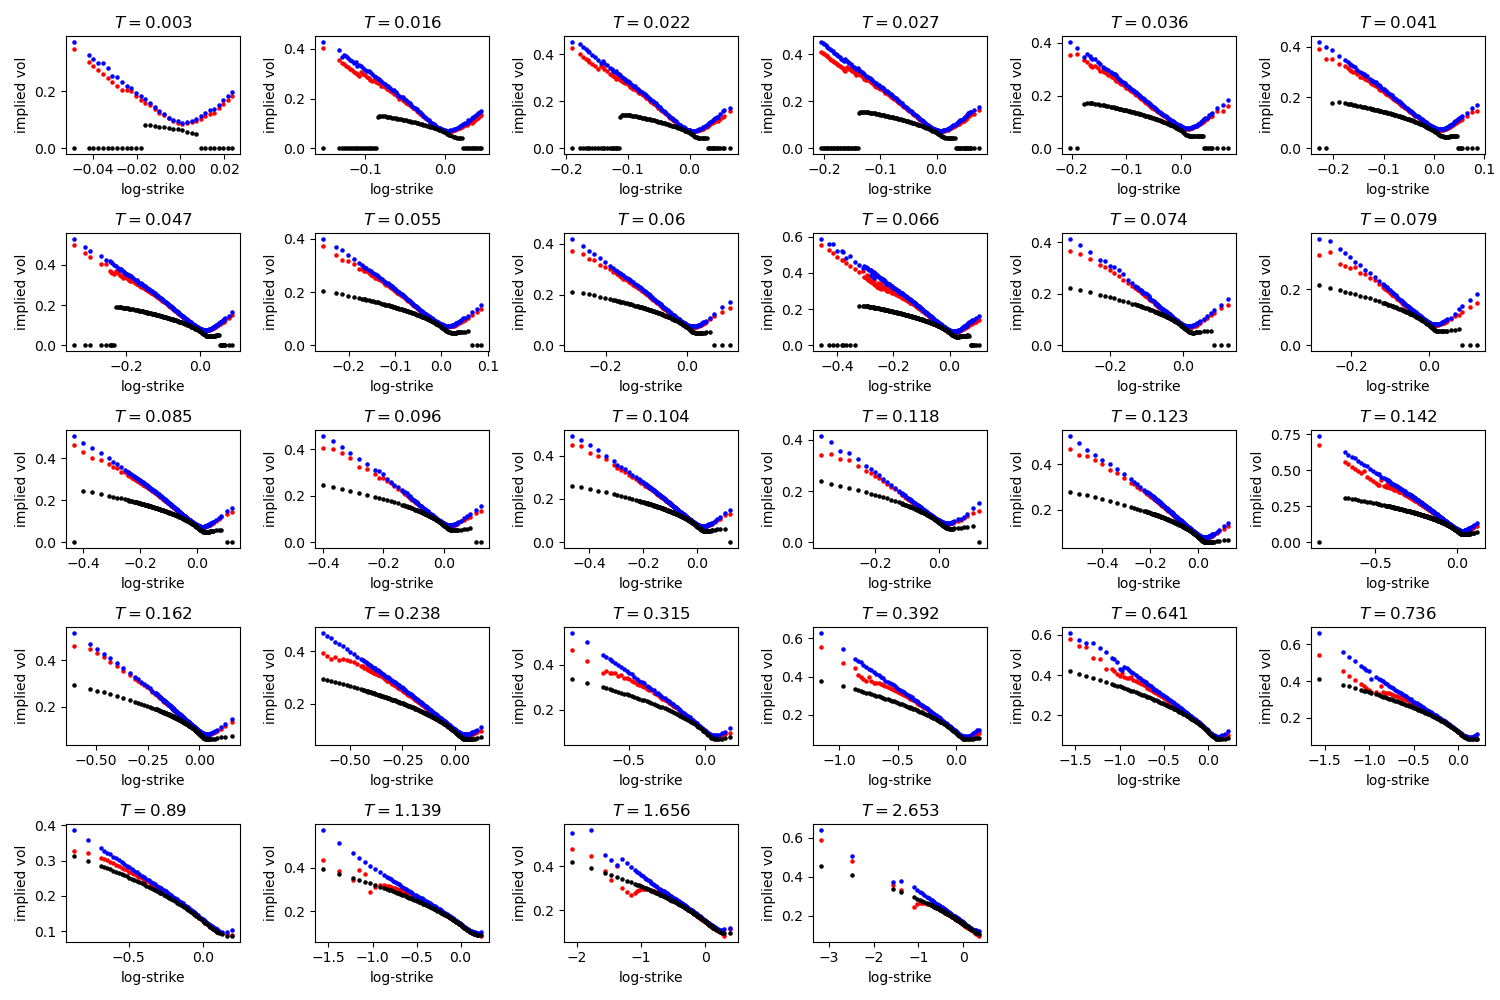
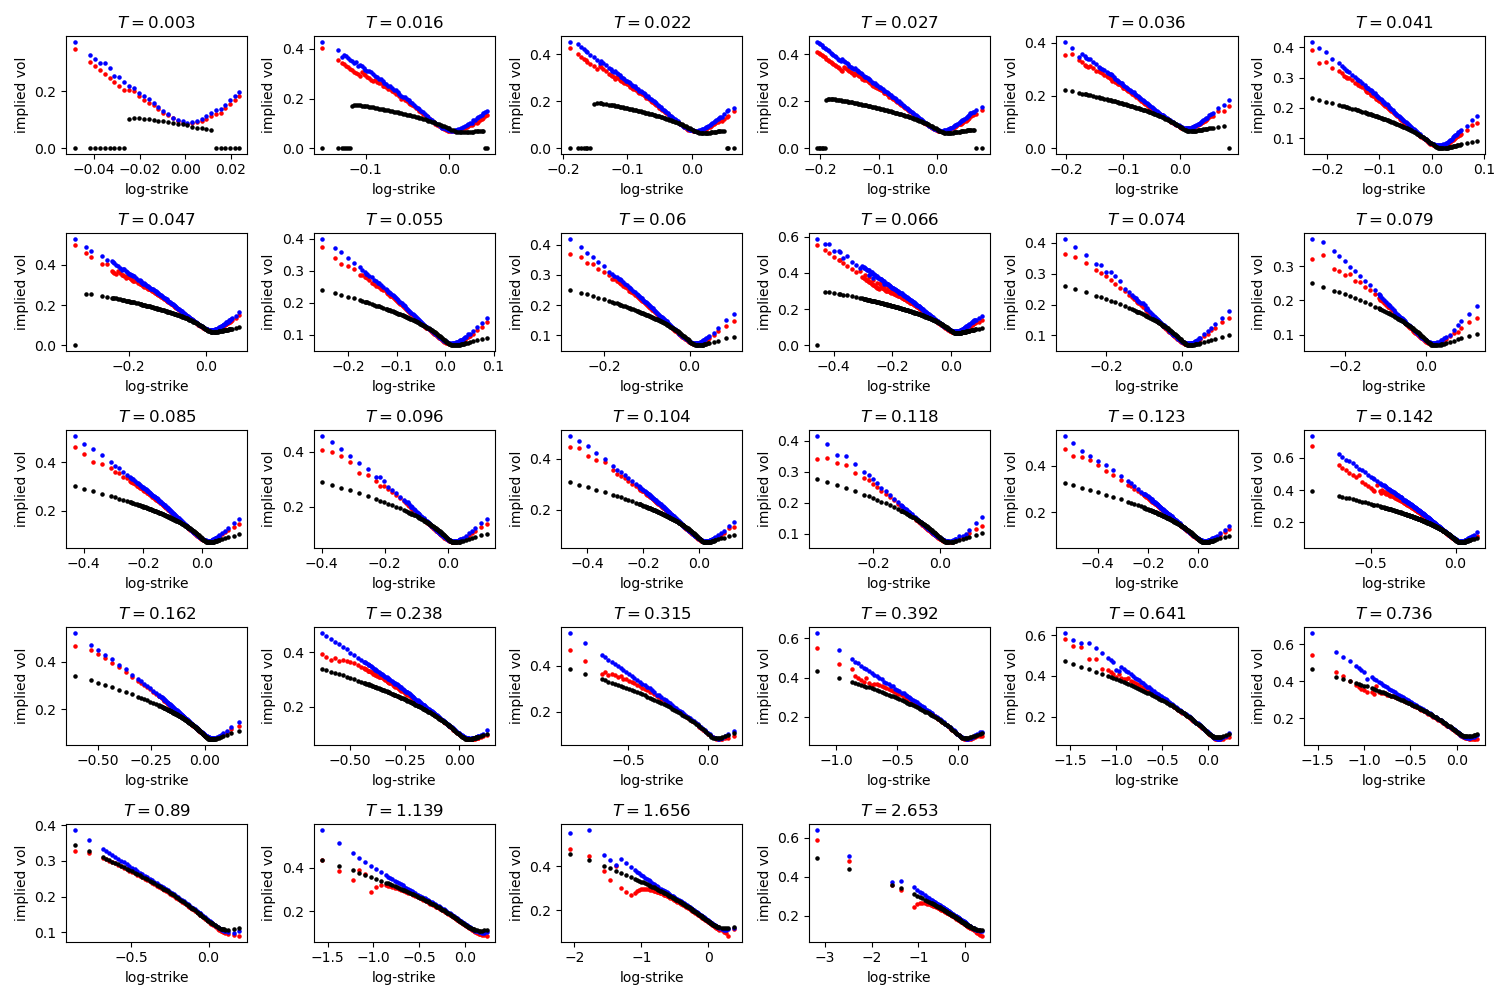
calibration to imp vol (unstable)

diff --git a/python-volcal/main.py b/python-volcal/main.py
@@ -1,18 +1,10 @@
 import numpy as np
 import pandas as pd
 import matplotlib.pyplot as plt
+from scipy.stats import norm
 from pricer import *
+from params import *
 plt.switch_backend("Agg")
-
-paramsBCC = {"meanRevRate": 1.15, "correlation": -0.64, "volOfVol": 0.39, "meanVar": 0.04, "currentVar": 0.04}
-paramsBCCkey = list(paramsBCC.keys())
-paramsBCCval = list(paramsBCC.values())
-paramsBCCBnd = ((0,10), (-1,1), (0,10), (0.01,1), (0,1))
-
-paramsMER = {"vol": 0.1, "jumpInt": 0.1, "jumpMean": -0.4, "jumpSd": 0.2}
-paramsMERkey = list(paramsMER.keys())
-paramsMERval = list(paramsMER.values())
-paramsMERBnd = ((0,1), (0,10), (-1,1), (0,10))
 
 dataFolder = "test/"
 
@@ -174,8 +166,18 @@ def test_ShortDatedHestonSmileFFT():
         plt.close()
 
 def test_HestonSmileFFTForVariousDates():
-    # TO-DO
-    pass
+    impVolFunc = CharFuncImpliedVol(HestonCharFunc(**paramsBCC),FFT=True)
+    for T in np.arange(0.01,0.1,0.01):
+        k = np.arange(-0.4,0.4,0.02)
+        iv = impVolFunc(k,T)
+        fig = plt.figure(figsize=(6,4))
+        plt.scatter(k, 100*iv, c='k', s=5)
+        plt.title(f"Heston {np.round(T,2)}-Year Smile (BCC Params)")
+        plt.xlabel("log-strike")
+        plt.ylabel("implied vol (%)")
+        fig.tight_layout()
+        plt.savefig(dataFolder+f"test_HestonSmileBCC_FFT_T={np.round(T,2)}.png")
+        plt.close()
 
 def test_HestonSmileLewis():
     impVolFunc = LewisCharFuncImpliedVol(HestonCharFunc(**paramsBCC))
@@ -213,10 +215,22 @@ def test_CalibrateHestonModelToCallPriceNew():
     T = df["Texp"]
     k = np.log(df["Strike"]/df["Fwd"]).to_numpy()
     mid = (df["CallMid"]/df["Fwd"]).to_numpy()
-    w = 1/(df["Ask"]-df["Bid"]).to_numpy()
+    w = 1/(df["Ask"]-df["Bid"]).to_numpy()*norm.pdf(k,scale=0.1)
     x = CalibrateModelToOptionPrice(k,T,mid,HestonCharFunc,paramsBCCval,paramsBCCkey,bounds=paramsBCCBnd,w=w,optionType="call")
     x = pd.DataFrame(x.reshape(1,-1), columns=paramsBCCkey)
     x.to_csv(dataFolder+"test_HestonCalibrationNew.csv", index=False)
+
+def test_CalibrateHestonModelToImpVol():
+    df = pd.read_csv("spxVols20170424.csv")
+    df = df.drop(df.columns[0], axis=1)
+    T = df["Texp"]
+    k = np.log(df["Strike"]/df["Fwd"]).to_numpy()
+    mid = (df["CallMid"]/df["Fwd"]).to_numpy()
+    w = 1/(df["Ask"]-df["Bid"]).to_numpy()*norm.pdf(k,scale=0.1)
+    iv = df[["Bid","Ask"]]
+    x = CalibrateModelToImpliedVol(k,T,iv,HestonCharFunc,paramsBCCval,paramsBCCkey,bounds=paramsBCCBnd,w=w,optionType="call")
+    x = pd.DataFrame(x.reshape(1,-1), columns=paramsBCCkey)
+    x.to_csv(dataFolder+"test_HestonCalibrationToImpVol.csv", index=False)
 
 def test_ImpVolFromHestonCalibration():
     cal = pd.read_csv(dataFolder+"test_HestonCalibration.csv")
@@ -292,6 +306,23 @@ def test_MertonJumpSmileSensitivity():
         plt.savefig(dataFolder+f"test_MertonSmile_{png[j]}.png")
         plt.close()
 
+def test_FitShortDatedMertonSmile():
+    df = pd.read_csv("spxVols20170424.csv")
+    df = df.drop(df.columns[0], axis=1)
+    Texp = df["Texp"].unique()
+    T = Texp[2]
+    dfT = df[df["Texp"]==T].copy()
+    k = np.log(dfT["Strike"]/dfT["Fwd"]).to_numpy()
+    mid = (dfT["CallMid"]/dfT["Fwd"]).to_numpy()
+    w = (k>-0.2)&(k<0.2)
+    x = CalibrateModelToOptionPrice(k,T,mid,MertonJumpCharFunc,paramsMERval,paramsMERkey,bounds=paramsMERBnd,w=w,optionType="call")
+    print(f"T={np.round(T,3)}", x)
+    params = {paramsMERkey[i]: x[i] for i in range(len(x))}
+    impVolFunc = CharFuncImpliedVol(MertonJumpCharFunc(**params),FFT=True)
+    iv = impVolFunc(k,T)
+    dfT["Fit"] = iv
+    PlotImpliedVol(dfT, dataFolder+f"test_MertonImpliedVol_T={np.round(T,3)}.png")
+
 def test_CalibrateMertonJumpModelToCallPrice():
     df = pd.read_csv("spxVols20170424.csv")
     df = df.drop(df.columns[0], axis=1)
@@ -314,10 +345,22 @@ def test_CalibrateMertonJumpModelToCallPriceNew():
     T = df["Texp"]
     k = np.log(df["Strike"]/df["Fwd"]).to_numpy()
     mid = (df["CallMid"]/df["Fwd"]).to_numpy()
-    w = 1/(df["Ask"]-df["Bid"]).to_numpy()
+    w = 1/(df["Ask"]-df["Bid"]).to_numpy()*norm.pdf(k,scale=0.1)
     x = CalibrateModelToOptionPrice(k,T,mid,MertonJumpCharFunc,paramsMERval,paramsMERkey,bounds=paramsMERBnd,w=w,optionType="call")
     x = pd.DataFrame(x.reshape(1,-1), columns=paramsMERkey)
     x.to_csv(dataFolder+"test_MertonCalibrationNew.csv", index=False)
+
+def test_CalibrateMertonModelToImpVol():
+    df = pd.read_csv("spxVols20170424.csv")
+    df = df.drop(df.columns[0], axis=1)
+    T = df["Texp"]
+    k = np.log(df["Strike"]/df["Fwd"]).to_numpy()
+    mid = (df["CallMid"]/df["Fwd"]).to_numpy()
+    w = 1/(df["Ask"]-df["Bid"]).to_numpy()*norm.pdf(k,scale=0.1)
+    iv = df[["Bid","Ask"]]
+    x = CalibrateModelToImpliedVol(k,T,iv,MertonJumpCharFunc,paramsMERval,paramsMERkey,bounds=paramsMERBnd,w=w,optionType="call")
+    x = pd.DataFrame(x.reshape(1,-1), columns=paramsMERkey)
+    x.to_csv(dataFolder+"test_MertonCalibrationToImpVol.csv", index=False)
 
 def test_ImpVolFromMertonJumpCalibration():
     cal = pd.read_csv(dataFolder+"test_MertonCalibration.csv")
@@ -354,23 +397,6 @@ def test_ImpVolFromMertonJumpCalibrationNew():
     dfnew = pd.concat(dfnew)
     PlotImpliedVol(dfnew, dataFolder+"test_MertonImpliedVolNew.png")
 
-def test_FitShortDatedMertonSmile():
-    df = pd.read_csv("spxVols20170424.csv")
-    df = df.drop(df.columns[0], axis=1)
-    Texp = df["Texp"].unique()
-    T = Texp[2]
-    dfT = df[df["Texp"]==T].copy()
-    k = np.log(dfT["Strike"]/dfT["Fwd"]).to_numpy()
-    mid = (dfT["CallMid"]/dfT["Fwd"]).to_numpy()
-    w = (k>-0.2)&(k<0.2)
-    x = CalibrateModelToOptionPrice(k,T,mid,MertonJumpCharFunc,paramsMERval,paramsMERkey,bounds=paramsMERBnd,w=w,optionType="call")
-    print(f"T={np.round(T,3)}", x)
-    params = {paramsMERkey[i]: x[i] for i in range(len(x))}
-    impVolFunc = CharFuncImpliedVol(MertonJumpCharFunc(**params),FFT=True)
-    iv = impVolFunc(k,T)
-    dfT["Fit"] = iv
-    PlotImpliedVol(dfT, dataFolder+f"test_MertonImpliedVol_T={np.round(T,3)}.png")
-
 if __name__ == '__main__':
     # test_BlackScholesImpVol()
     # test_PlotImpliedVol()
@@ -379,7 +405,7 @@ if __name__ == '__main__':
     # test_LevSwapCurve()
     # test_CalcFwdVarCurve()
     #### Heston ####
-    test_HestonSmile()
+    # test_HestonSmile()
     # test_HestonSmileSensitivity()
     # test_HestonSmileFFT()
     # test_ShortDatedHestonSmileFFT()
@@ -387,6 +413,7 @@ if __name__ == '__main__':
     # test_HestonSmileLewis()
     # test_CalibrateHestonModelToCallPrice()
     # test_CalibrateHestonModelToCallPriceNew()
+    test_CalibrateHestonModelToImpVol()
     # test_ImpVolFromHestonCalibration()
     # test_ImpVolFromHestonCalibrationNew()
     #### Merton ####
@@ -394,6 +421,9 @@ if __name__ == '__main__':
     # test_MertonJumpSmileSensitivity()
     # test_CalibrateMertonJumpModelToCallPrice()
     # test_CalibrateMertonJumpModelToCallPriceNew()
+    # test_CalibrateMertonModelToImpVol()
     # test_ImpVolFromMertonJumpCalibration()
     # test_ImpVolFromMertonJumpCalibrationNew()
     # test_FitShortDatedMertonSmile()
+    #### VGamma ####
+    #

diff --git a/python-volcal/pricer.py b/python-volcal/pricer.py
@@ -119,17 +119,17 @@ def CarrMadanFormulaFFT(charFunc, logStrike, maturity, optionType="OTM", interp=
             return (modCharFunc(u-1j*alpha, maturity) - modCharFunc(u+1j*alpha, maturity)) / 2
         I = w * np.exp(1j*b*u) * gamCharFunc(u, maturity) * du/3
         with np.errstate(divide='ignore'): Ifft = 1/(np.pi*np.sinh(alpha*k)) * np.real(fft(I))
-        price0 = CarrMadanFormula(charFunc, -1e-4, maturity, "put", alpha, **kwargs)
-        price1 = CarrMadanFormula(charFunc, +1e-4, maturity, "call", alpha, **kwargs)
-        Ifft[N//2] = (price0+price1)/2
+        Ifft[N//2] = CarrMadanFormula(charFunc, 0, maturity, "OTM", alpha, **kwargs) # k = 0
         spline = interp1d(k, Ifft, kind=interp)
         price = spline(logStrike)
         return price
 
-def CharFuncImpliedVol(charFunc, optionType="OTM", riskFreeRate=0, FFT=False, **kwargs):
+def CharFuncImpliedVol(charFunc, optionType="OTM", riskFreeRate=0, FFT=False, formulaType="CarrMadan", **kwargs):
     # Implied volatility for call/put/OTM priced with charFunc
-    # formula = LewisFormulaFFT if FFT else LewisFormula
-    formula = CarrMadanFormulaFFT if FFT else CarrMadanFormula
+    if formulaType == "Lewis":
+        formula = LewisFormulaFFT if FFT else LewisFormula
+    elif formulaType == "CarrMadan":
+        formula = CarrMadanFormulaFFT if FFT else CarrMadanFormula
     def impVolFunc(logStrike, maturity):
         return BlackScholesImpliedVol(1, np.exp(logStrike), maturity, riskFreeRate, formula(charFunc, logStrike, maturity, optionType, **kwargs), optionType)
     return impVolFunc
@@ -185,8 +185,9 @@ def CalibrateModelToOptionPrice(logStrike, maturity, optionPrice, model, params0
     def objective(params):
         params = {paramsLabel[i]: params[i] for i in range(len(params))}
         charFunc = model(**params)
-        # price = LewisFormulaFFT(charFunc, logStrike, maturity, optionType, **kwargs)
-        price = np.concatenate([LewisFormulaFFT(charFunc, logStrike[maturity==T], T, optionType, **kwargs) for T in np.unique(maturity)], axis=None)
+        # price = LewisFormulaFFT(charFunc, logStrike, maturity, optionType, **kwargs) # single fixed maturity
+        # price = np.concatenate([LewisFormulaFFT(charFunc, logStrike[maturity==T], T, optionType, **kwargs) for T in np.unique(maturity)], axis=None)
+        price = np.concatenate([CarrMadanFormulaFFT(charFunc, logStrike[maturity==T], T, optionType, **kwargs) for T in np.unique(maturity)], axis=None)
         loss = np.sum(w*(price-optionPrice)**2)
         print(f"loss: {loss}")
         return loss
@@ -196,8 +197,22 @@ def CalibrateModelToOptionPrice(logStrike, maturity, optionPrice, model, params0
 
 def CalibrateModelToImpliedVol(logStrike, maturity, optionImpVol, model, params0, paramsLabel, bounds=None, w=None, optionType="call", **kwargs):
     # Calibrate model params to option prices (pricing measure)
-    # TO-DO
-    pass
+    # VERY UNSTABLE: params blow up to boundary during optimization
+    if w is None: w = 1
+    maturity = np.array(maturity)
+    bidVol = optionImpVol["Bid"].to_numpy()
+    askVol = optionImpVol["Ask"].to_numpy()
+    def objective(params):
+        params = {paramsLabel[i]: params[i] for i in range(len(params))}
+        charFunc = model(**params)
+        impVolFunc = CharFuncImpliedVol(charFunc, optionType=optionType, FFT=True, **kwargs)
+        impVol = np.concatenate([impVolFunc(logStrike[maturity==T], T) for T in np.unique(maturity)], axis=None)
+        loss = np.sum(w*((impVol-bidVol)**2+(askVol-impVol)**2))
+        print(f"loss: {loss}")
+        return loss
+    opt = minimize(objective, x0=params0, bounds=bounds, method="SLSQP")
+    print("Optimization output:", opt, sep="\n")
+    return opt.x
 
 def PlotImpliedVol(df, figname=None, ncol=6):
     # Plot bid-ask implied volatilities based on df

diff --git a/python-volcal/params.py b/python-volcal/params.py
@@ -1,0 +1,11 @@
+# Heston
+paramsBCC = {"meanRevRate": 1.15, "correlation": -0.64, "volOfVol": 0.39, "meanVar": 0.04, "currentVar": 0.04}
+paramsBCCkey = list(paramsBCC.keys())
+paramsBCCval = list(paramsBCC.values())
+paramsBCCBnd = ((0,10), (-1,1), (0,10), (0.01,1), (0,1))
+# Merton
+paramsMER = {"vol": 0.1, "jumpInt": 0.1, "jumpMean": -0.4, "jumpSd": 0.2}
+paramsMERkey = list(paramsMER.keys())
+paramsMERval = list(paramsMER.values())
+paramsMERBnd = ((0,1), (0,10), (-1,1), (0,10))
+# VGamma
